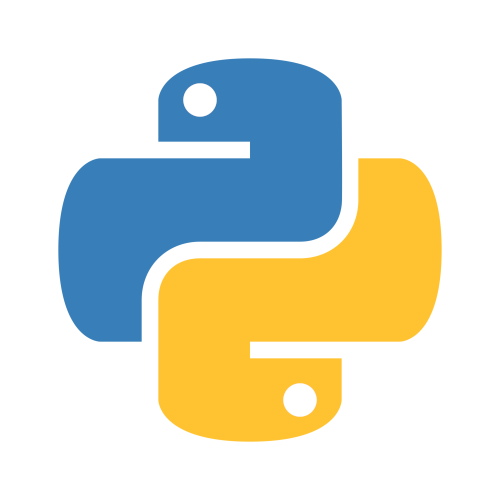
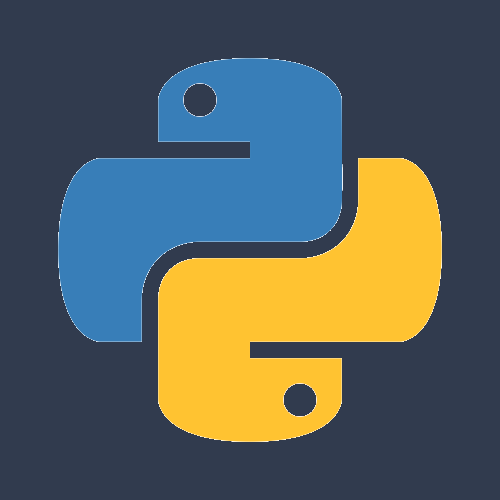
Add files via upload

diff --git a/index.html b/index.html
@@ -34,7 +34,7 @@
 	<title>BLOX</title>
 	
 	<link rel="icon" type="image/x-icon" href="https://www.python.org/static/favicon.ico">
-	<link rel="stylesheet" href="https://lukebluelox.github.io/PORTFOLIO/Django-Style.css">
+	<link rel="stylesheet" href="Django-Style.css">
 	<link rel="stylesheet" href="https://cdnjs.cloudflare.com/ajax/libs/font-awesome/4.7.0/css/font-awesome.min.css">
 </head>
 
@@ -57,7 +57,7 @@ BLUE LIQUID OXYGEN - "BLOX": Technical Social Organization - For Creating Useful
 </span>
 <br>
 <span class="polish">
-BŁĘKITNY CIEKŁY TLEN - "BLOX": Społeczna Organizacja Techniczna - Dla Tworzenia Przydatnych Społecznie Rozwiązań
+BŁĘKITNY CIEKŁY TLEN - "BLOX": Społeczna Organizacja Techniczna - Dla Tworzenia Rozwiązań Przydatnych Społecznie
 </span>
 </center>
 </TD>
@@ -176,6 +176,12 @@ BŁĘKITNY CIEKŁY TLEN - "BLOX": Społeczna Organizacja Techniczna - Dla Tworze
        ALT="[ETHEREUM.ORG]" TITLE="ETHEREUM.ORG"
        class="iconframe icon"></A>
        
+<tr><td>
+  <A HREF="https://www.python.org"target="_blank"> 
+  <IMG SRC="https://raw.githubusercontent.com/LukeBlueLOx/Django-BLOX-Land-Post_List.html/main/Python-500x500.png" ALIGN=left 
+       ALT="[PYTHON.ORG]" TITLE="PYTHON.ORG"
+       class="iconframe icon"></A>
+       
 </TABLE>
 
 <TD style="padding-left: 9px;">
@@ -222,20 +228,21 @@ BŁĘKITNY CIEKŁY TLEN - "BLOX": Społeczna Organizacja Techniczna - Dla Tworze
 <a href="https://blox-land.herokuapp.com/scv2pl_en"target="_blank"class="button1">"EPIDEMIC" App</a>
 </DIV>
 
-<a href="https://scv2pl.github.io"target="_blank"class="button3">Aplikacja "EPIDEMIA"</a>
-
-<DIV>
-<a href="https://lukebluelox.github.io/Cases_Files_Andruszkiewicz_Lukasz/project"target="_blank"class="button1">CASES FILES - A.Ł.</a>
-<a href="https://app.skiff.com/docs/709b19a9-d262-4405-854c-d713f34cb6d9#ZUsuneyiMeTQtn73bjunx8suK+YUSLi5cJdPlHqdMrc="target="_blank"class="button1">SCRIPT-SKIFF</a>
-</DIV>
-
-<a href="https://lukebluelox.github.io/Cases_Files_Andruszkiewicz_Lukasz/project"target="_blank"class="button3">Akta Spraw - Andruszkiewicz Łukasz</a>
+<a href="https://scv2pl.github.io"target="_blank"class="button4">Aplikacja "EPIDEMIA"</a>
 <br>
-<a href="https://app.skiff.com/docs/709b19a9-d262-4405-854c-d713f34cb6d9#ZUsuneyiMeTQtn73bjunx8suK+YUSLi5cJdPlHqdMrc="target="_blank"class="button3">SKRYPT-SKIFF</a>
+<a href="https://lukebluelox.github.io/Cases_Files_Andruszkiewicz_Lukasz/project"target="_blank"class="button2">CASES FILES - Andruszkiewicz Łukasz</a>
+<br>
+<a href="https://lukebluelox.github.io/Cases_Files_Andruszkiewicz_Lukasz/project"target="_blank"class="button4">Akta Spraw - Andruszkiewicz Łukasz</a>
+<br>
+<a href="https://app.skiff.com/docs/709b19a9-d262-4405-854c-d713f34cb6d9#ZUsuneyiMeTQtn73bjunx8suK+YUSLi5cJdPlHqdMrc="target="_blank"class="button2">SCRIPT-SKIFF</a>
+<br>
+<a href="https://app.skiff.com/docs/709b19a9-d262-4405-854c-d713f34cb6d9#ZUsuneyiMeTQtn73bjunx8suK+YUSLi5cJdPlHqdMrc="target="_blank"class="button4">SKRYPT-SKIFF</a>
+<br>
+<a href="#FPR"target="_blank"class="button2"><r>"FLAMMANS PRO RECTO"</r></a>
 
 <DIV>
-<a href="#FPR"class="button1"><r>"FLAMMANS PRO RECTO"</r></a>
 <a href="#SUPPORT"class="button1">SUPPORT</a>
+<a href="#SUPPORT"class="button3">WESPRZYJ</a>
 </DIV>
 
 <DIV>
@@ -434,6 +441,6 @@ If you want to go to the top of the page - click on the picture
 
 </TABLE>
 </DIV>
-<!---->
+<!--https://lukebluelox.github.io/PORTFOLIO/-->
 </BODY>
 </HTML>

diff --git a/Django-Style.css b/Django-Style.css
@@ -88,7 +88,7 @@ DIV.buttons {
     background-color: #313b4e;
     border: none;
     color: #98c13d;
-    width: 500px;
+    width: 245px;
     height: 50px;
     line-height: 50px;
     text-align: center;
@@ -104,6 +104,32 @@ DIV.buttons {
 }
 
 .button3:hover {
+    background-color: #313b4e;
+    color: red;
+    border: 1px solid red;
+    box-shadow: 0 12px 16px 0 rgba(0,0,0,0.24),0 17px 50px 0 rgba(0,0,0,0.19);
+}
+
+.button4 {
+    background-color: #313b4e;
+    border: none;
+    color: #98c13d;
+    width: 500px;
+    height: 50px;
+    line-height: 50px;
+    text-align: center;
+    text-decoration: none;
+    display: inline-block;
+    font-family: "Arial";
+    font-size: 18px;
+    font-weight: 500;
+    margin: 4px 2px;
+    cursor: pointer;
+    border-radius: 6px;
+    border: 1px solid #98c13d;
+}
+
+.button4:hover {
     background-color: #313b4e;
     color: red;
     border: 1px solid red;
